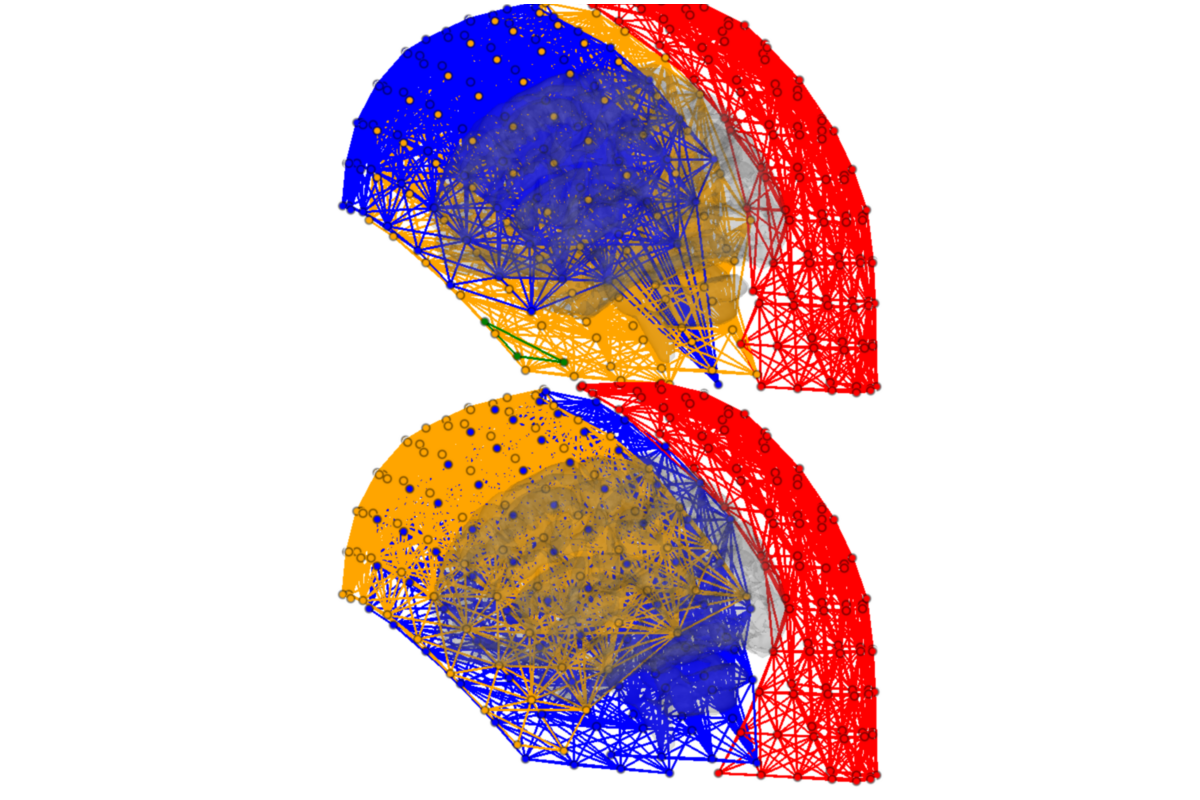
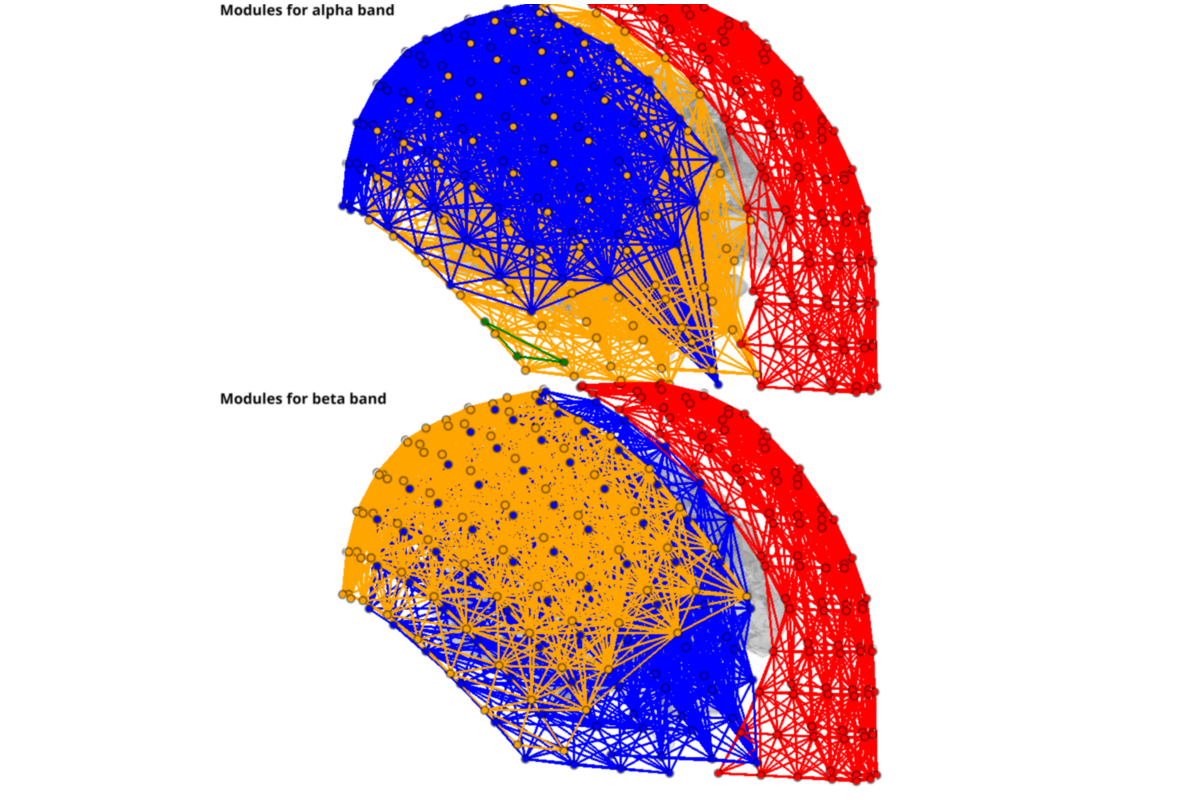
Make install

diff --git a/auto_examples/plot_conmat_to_graph.html b/auto_examples/plot_conmat_to_graph.html
@@ -285,22 +285,22 @@ here correspond to how we connected the nodes.</p>
     <span class="n">lol_file</span> <span class="o">=</span> <span class="n">op</span><span class="o">.</span><span class="n">join</span><span class="p">(</span><span class="n">res_path</span><span class="p">,</span> <span class="s2">&quot;community_rada&quot;</span><span class="p">,</span> <span class="s2">&quot;Z_List.lol&quot;</span><span class="p">)</span>
     <span class="n">net_file</span> <span class="o">=</span> <span class="n">op</span><span class="o">.</span><span class="n">join</span><span class="p">(</span><span class="n">res_path</span><span class="p">,</span> <span class="s2">&quot;prep_rada&quot;</span><span class="p">,</span> <span class="s2">&quot;Z_List.net&quot;</span><span class="p">)</span>
 
-    <span class="n">c_obj</span><span class="p">,</span><span class="n">s_obj</span> <span class="o">=</span> <span class="n">visu_graph_modules</span><span class="p">(</span>
-        <span class="n">lol_file</span><span class="o">=</span><span class="n">lol_file</span><span class="p">,</span> <span class="n">net_file</span><span class="o">=</span><span class="n">net_file</span><span class="p">,</span> <span class="n">coords_file</span><span class="o">=</span><span class="n">coords_file</span><span class="p">,</span> <span class="n">inter_modules</span><span class="o">=</span><span class="bp">False</span><span class="p">,</span> <span class="n">z_offset</span><span class="o">=+</span><span class="mi">50</span><span class="p">)</span>
-    <span class="n">sc</span><span class="o">.</span><span class="n">add_to_subplot</span><span class="p">(</span><span class="n">c_obj</span><span class="p">,</span> <span class="n">row</span><span class="o">=</span><span class="n">nf</span><span class="p">)</span>
-    <span class="n">sc</span><span class="o">.</span><span class="n">add_to_subplot</span><span class="p">(</span><span class="n">s_obj</span><span class="p">,</span> <span class="n">row</span><span class="o">=</span><span class="n">nf</span><span class="p">)</span>
-
     <span class="n">b_obj</span> <span class="o">=</span> <span class="n">BrainObj</span><span class="p">(</span><span class="s2">&quot;B1&quot;</span><span class="p">,</span> <span class="n">translucent</span><span class="o">=</span><span class="bp">True</span><span class="p">)</span>
     <span class="n">sc</span><span class="o">.</span><span class="n">add_to_subplot</span><span class="p">(</span>
         <span class="n">b_obj</span><span class="p">,</span> <span class="n">row</span><span class="o">=</span><span class="n">nf</span><span class="p">,</span> <span class="n">use_this_cam</span><span class="o">=</span><span class="bp">True</span><span class="p">,</span> <span class="n">rotate</span><span class="o">=</span><span class="s1">&#39;left&#39;</span><span class="p">,</span>
         <span class="n">title</span><span class="o">=</span><span class="p">(</span><span class="s2">&quot;Modules for {} band&quot;</span><span class="o">.</span><span class="n">format</span><span class="p">(</span><span class="n">freq_band_name</span><span class="p">)),</span>
         <span class="n">title_size</span><span class="o">=</span><span class="mi">14</span><span class="p">,</span> <span class="n">title_bold</span><span class="o">=</span><span class="bp">True</span><span class="p">,</span> <span class="n">title_color</span><span class="o">=</span><span class="s1">&#39;black&#39;</span><span class="p">)</span>
 
+    <span class="n">c_obj</span><span class="p">,</span><span class="n">s_obj</span> <span class="o">=</span> <span class="n">visu_graph_modules</span><span class="p">(</span>
+        <span class="n">lol_file</span><span class="o">=</span><span class="n">lol_file</span><span class="p">,</span> <span class="n">net_file</span><span class="o">=</span><span class="n">net_file</span><span class="p">,</span> <span class="n">coords_file</span><span class="o">=</span><span class="n">coords_file</span><span class="p">,</span> <span class="n">inter_modules</span><span class="o">=</span><span class="bp">False</span><span class="p">,</span> <span class="n">z_offset</span><span class="o">=+</span><span class="mi">50</span><span class="p">)</span>
+    <span class="n">sc</span><span class="o">.</span><span class="n">add_to_subplot</span><span class="p">(</span><span class="n">c_obj</span><span class="p">,</span> <span class="n">row</span><span class="o">=</span><span class="n">nf</span><span class="p">)</span>
+    <span class="n">sc</span><span class="o">.</span><span class="n">add_to_subplot</span><span class="p">(</span><span class="n">s_obj</span><span class="p">,</span> <span class="n">row</span><span class="o">=</span><span class="n">nf</span><span class="p">)</span>
+
 <span class="n">sc</span><span class="o">.</span><span class="n">preview</span><span class="p">()</span>
 </pre></div>
 </div>
 <img alt="../_images/sphx_glr_plot_conmat_to_graph_002.png" class="sphx-glr-single-img" src="../_images/sphx_glr_plot_conmat_to_graph_002.png" />
-<p><strong>Total running time of the script:</strong> ( 0 minutes  13.670 seconds)</p>
+<p><strong>Total running time of the script:</strong> ( 0 minutes  14.265 seconds)</p>
 <div class="sphx-glr-footer class sphx-glr-footer-example docutils container" id="sphx-glr-download-auto-examples-plot-conmat-to-graph-py">
 <div class="sphx-glr-download docutils container">
 <a class="reference download internal" download="" href="../_downloads/148019e1e7aad92d3808c5ede724a325/plot_conmat_to_graph.py"><code class="xref download docutils literal notranslate"><span class="pre">Download</span> <span class="pre">Python</span> <span class="pre">source</span> <span class="pre">code:</span> <span class="pre">plot_conmat_to_graph.py</span></code></a></div>

diff --git a/_downloads/148019e1e7aad92d3808c5ede724a325/plot_conmat_to_graph.py b/_downloads/148019e1e7aad92d3808c5ede724a325/plot_conmat_to_graph.py
@@ -186,15 +186,15 @@ for nf, freq_band_name in enumerate(freq_band_names):
     lol_file = op.join(res_path, "community_rada", "Z_List.lol")
     net_file = op.join(res_path, "prep_rada", "Z_List.net")
 
-    c_obj,s_obj = visu_graph_modules(
-        lol_file=lol_file, net_file=net_file, coords_file=coords_file, inter_modules=False, z_offset=+50)
-    sc.add_to_subplot(c_obj, row=nf)
-    sc.add_to_subplot(s_obj, row=nf)
-
     b_obj = BrainObj("B1", translucent=True)
     sc.add_to_subplot(
         b_obj, row=nf, use_this_cam=True, rotate='left',
         title=("Modules for {} band".format(freq_band_name)),
         title_size=14, title_bold=True, title_color='black')
+
+    c_obj,s_obj = visu_graph_modules(
+        lol_file=lol_file, net_file=net_file, coords_file=coords_file, inter_modules=False, z_offset=+50)
+    sc.add_to_subplot(c_obj, row=nf)
+    sc.add_to_subplot(s_obj, row=nf)
 
 sc.preview()
